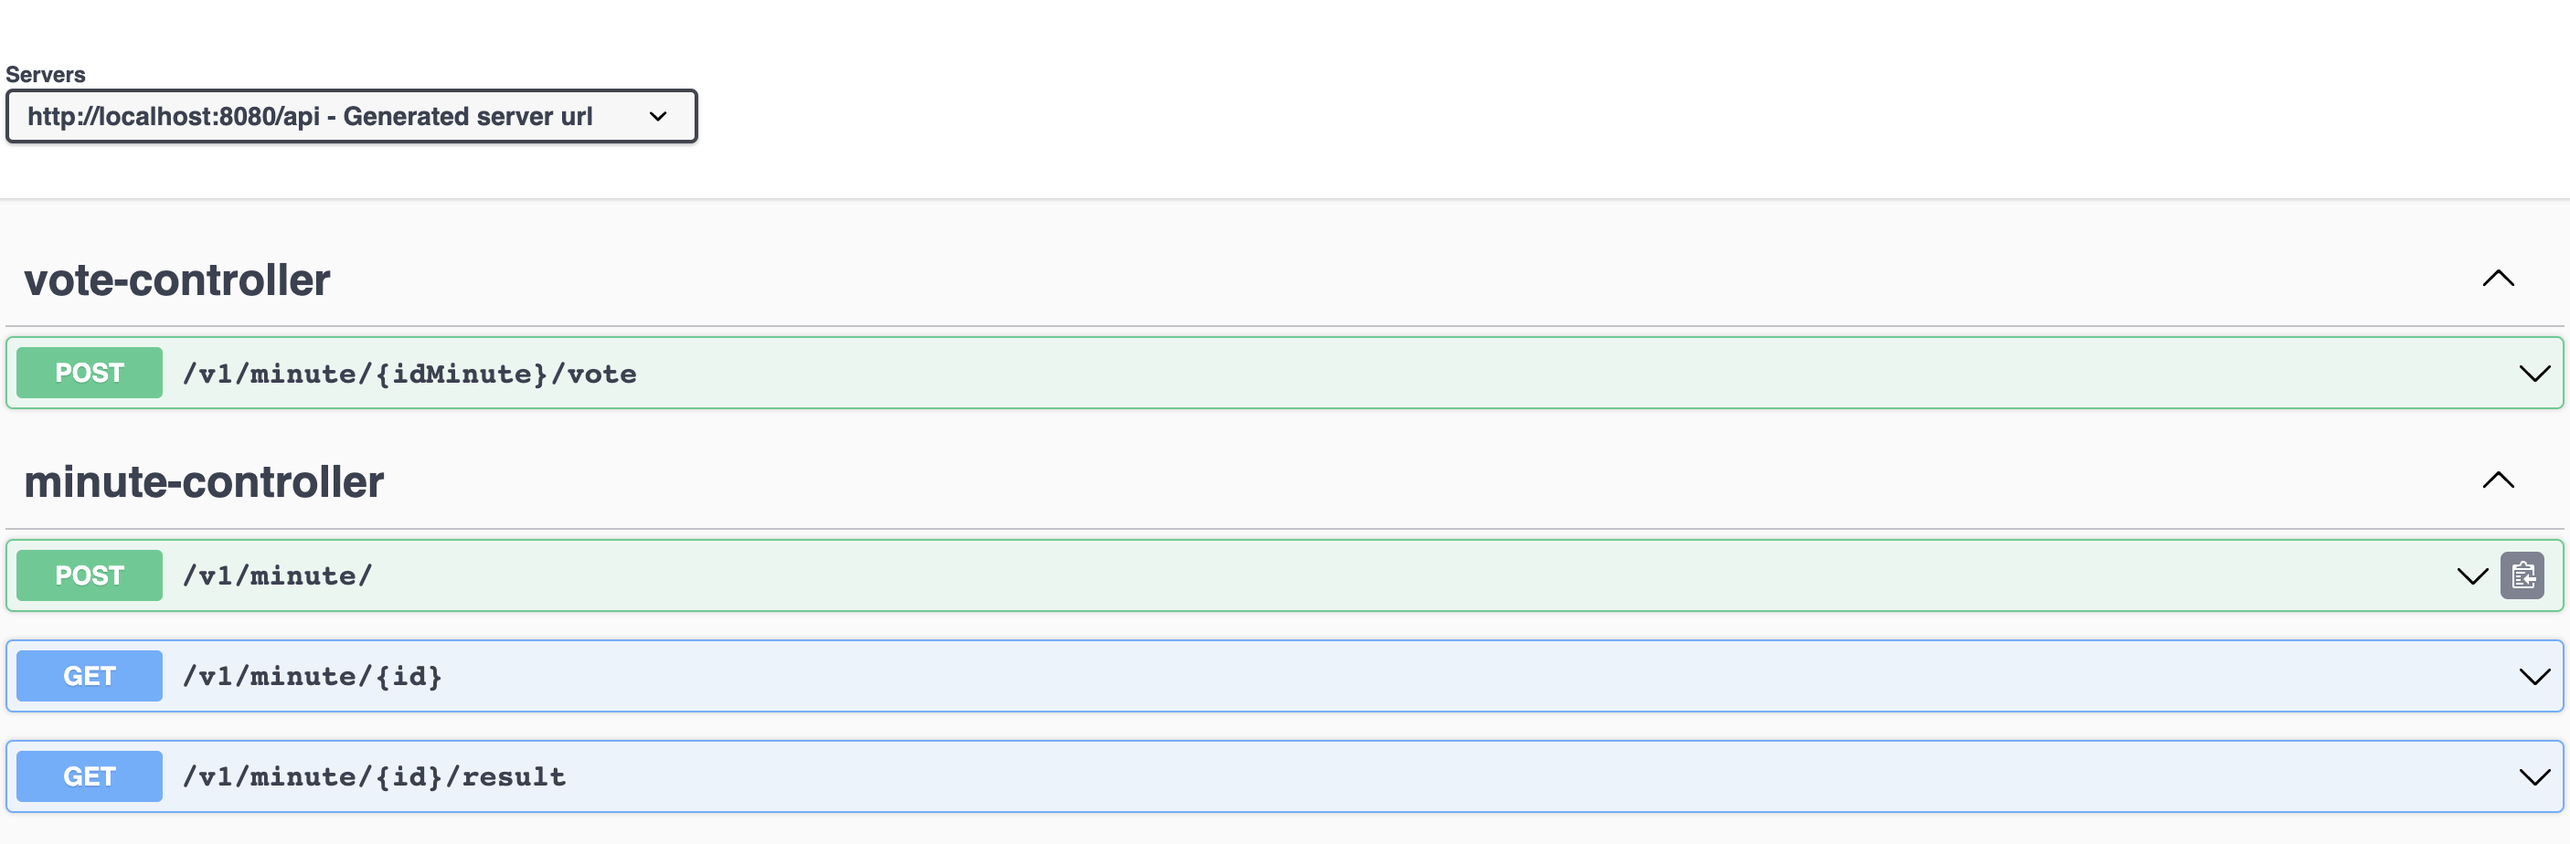
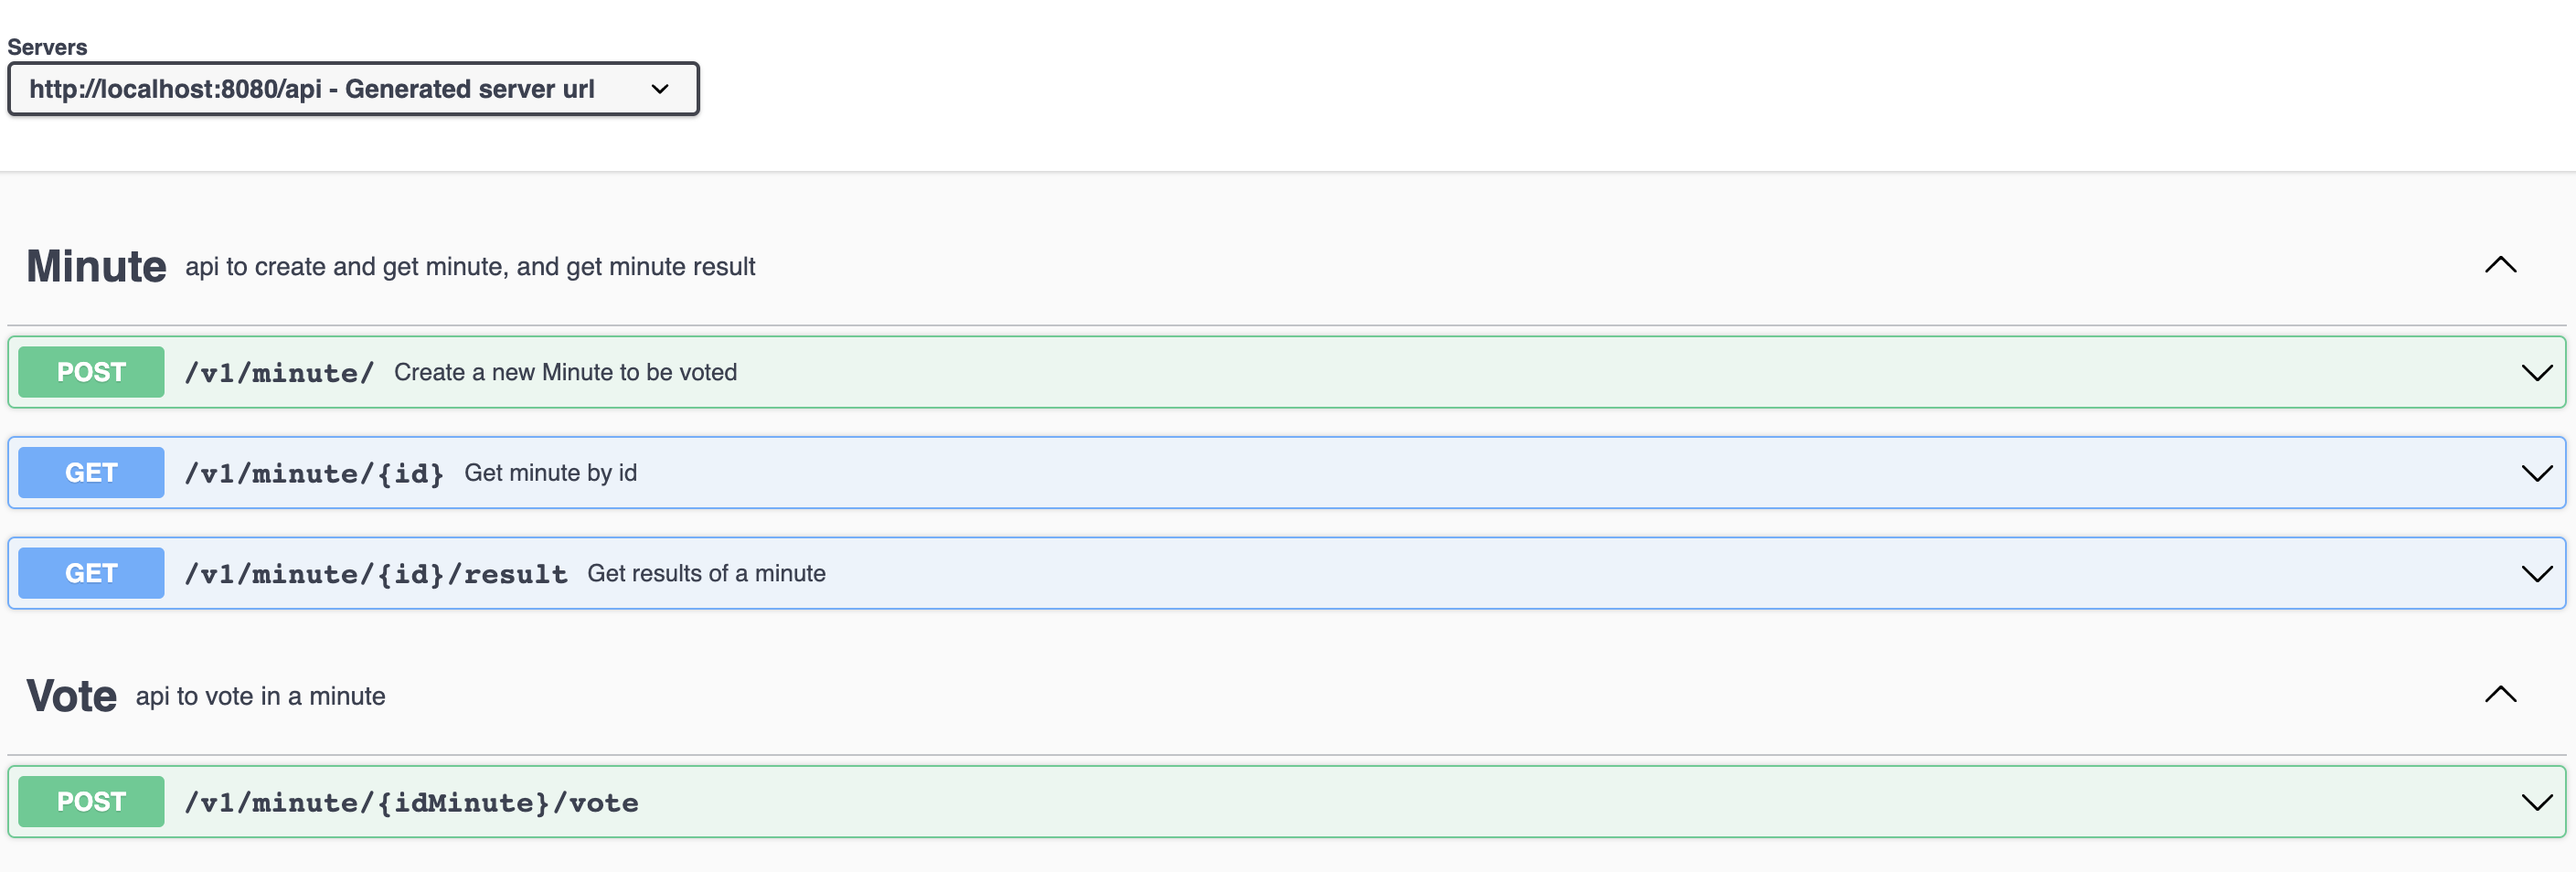
Fixing readme

diff --git a/README.md b/README.md
@@ -4,3 +4,26 @@
 * Java 17 using spring boot 3.1.2
 * Flyway for creating a managing tables
 * Postgresql for database.
+* Swagger for API documentation
+* JUnity and Mockito for unity testing.
+
+## How to get started:
+
+* Create your `application.properties` file following the `application.properties-sample`, mapping your own DB. 
+* Build and run using following maven commands:
+````
+mvn clean install
+mvn spring-boot:run
+````
+
+## How it works
+
+There a few endpoints implemented in this API:
+
+![API - Swagger](https://github.com/asreal089/minute-system-back/blob/main/swagger.png?raw=true)
+
+* Use the endpoint `api/v1/minute` end to create a minute, also that would a time frame for voting, the default value is 1 minute, but it can be set by adding the field `duration`.
+
+* Vote using the endpoint `api/v1/minute/{idMinute}/vote` while the "the session" is still available.
+
+* Get result in the endpoint `api/v1/minute/{idMinute}/result`
